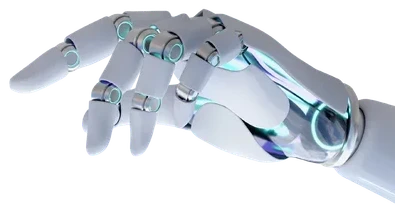
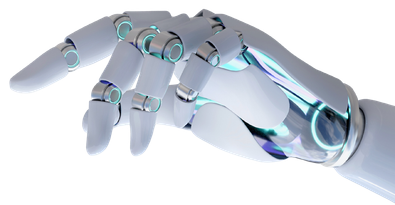
Homepage review pass: general problem and workflow slides, clearer offer, objections answered, sharper images, calmer motion
Claude-Session: https://claude.ai/code/session_01M1NKcTwKaxVh1QCPGxnW1z

diff --git a/index.html b/index.html
@@ -31,7 +31,7 @@
   <link rel="stylesheet" href="https://fonts.googleapis.com/css2?family=Archivo:wdth,wght@62..125,400..900&family=Inter:wght@400;500;600&family=Space+Grotesk:wght@500;600;700&family=JetBrains+Mono:wght@400;500;600&display=swap" media="print" onload="this.media=&#39;all&#39;" />
   <noscript><link rel="stylesheet" href="https://fonts.googleapis.com/css2?family=Archivo:wdth,wght@62..125,400..900&family=Inter:wght@400;500;600&family=Space+Grotesk:wght@500;600;700&family=JetBrains+Mono:wght@400;500;600&display=swap" /></noscript>
   <link rel="stylesheet" href="styles.css?v=20261015m" />
-  <link rel="stylesheet" href="home.css?v=20261015v" />
+  <link rel="stylesheet" href="home.css?v=20261016d" />
 
   <script type="application/ld+json">
 {
@@ -206,17 +206,18 @@
 
     <!-- Slide 1: everything they need, on one screen. The hands come in from the edges, like the Let's Build videos. -->
     <section class="hp-slide hp-deck" data-anim aria-labelledby="s1">
-      <img class="hp-hand hp-hand--robot" src="assets/art/hand-robot.webp" alt="" width="395" height="205" />
-      <img class="hp-hand hp-hand--human" src="assets/art/hand-human.webp" alt="" width="330" height="314" />
+      <img class="hp-hand hp-hand--robot" src="assets/art/hand-robot.webp?v=2" alt="" width="395" height="205" />
+      <img class="hp-hand hp-hand--human" src="assets/art/hand-human.webp?v=2" alt="" width="330" height="314" />
       <div class="hp-wrap hp-deck__in">
+        <p class="hp-deck__kicker">AI workflows for South African small businesses</p>
         <h1 class="hp-deck__title" id="s1">Your team types all day. <em>(Let AI do the typing)</em></h1>
         <div class="hp-deck__low">
           <span class="hp-deck__arrow" aria-hidden="true">&#8600;</span>
-          <p class="hp-lead">Emails, invoices, quotes, calls: AI drafts the work, a person checks it, and your team gets the hours back.</p>
-          <p class="hp-deck__tag"><b>Ready in 3 days. You only pay if it saves your team 5 hours a week.</b></p>
+          <p class="hp-deck__tag"><b>Start with the Inbox Assistant: ready in 3 business days, and you only pay if it saves your team 5 hours a week.</b></p>
+          <p class="hp-lead">Emails, WhatsApps, invoices, quotes, calls: AI drafts the work, a person checks it.</p>
           <div class="hp-actions">
             <a class="hp-btn" href="https://calendar.app.google/58FYamh1ahXB4khM9" target="_blank" rel="noopener" data-track="cta-hero-book">Book a free 30-minute call</a>
-            <a class="hp-link" href="live-demo?sample=email" data-track="cta-hero-watch">Watch it work &rarr;</a>
+            <a class="hp-link" href="https://wa.me/27722375833" target="_blank" rel="noopener" data-track="cta-hero-wa">Or ask on WhatsApp &rarr;</a>
           </div>
         </div>
       </div>
@@ -228,11 +229,18 @@
       <div class="hp-wrap hp-problem__grid">
         <div>
           <p class="hp-num">01</p>
-          <h2 id="s2">The problem</h2>
-          <p class="hp-problem__lead">An inbox that never empties. The same questions every day. Invoices typed in twice, and enquiries that slip through while everyone is busy.</p>
-          <p class="hp-problem__lead"><b>None of it is hard. It just fills the day.</b></p>
+          <p class="hp-label">The problem</p>
+          <h2 id="s2">None of it is hard. It just fills the day.</h2>
+          <p class="hp-problem__lead">It&rsquo;s different in every business: missed calls, invoices typed in twice, quotes that never get followed up, the same question for the tenth time today, and yes, the inbox.</p>
         </div>
-        <figure class="hp-art hp-art--problem" data-anim><img src="assets/art/inbox-overload.webp?v=2" alt="A laptop with an overflowing inbox: 124 unread emails, quote requests, support questions and follow-ups piling up." width="800" height="533" loading="lazy" /></figure>
+        <figure class="hp-art hp-art--problem hp-pile" data-anim aria-label="The kind of work that piles up: missed calls, invoices to capture, quotes waiting, repeated questions and unread emails.">
+          <img src="assets/art/inbox-overload.webp?v=3" alt="" width="800" height="533" loading="lazy" />
+          <span class="hp-chip hp-chip--1"><b>&#9742; 6 missed calls</b><small>since 17:00 yesterday</small></span>
+          <span class="hp-chip hp-chip--2"><b>14 invoices to capture</b><small>typed into Xero by hand</small></span>
+          <span class="hp-chip hp-chip--3"><b>Quote sent 9 days ago</b><small>no follow-up yet</small></span>
+          <span class="hp-chip hp-chip--4"><b>&ldquo;What are your hours?&rdquo;</b><small>asked 11 times this week</small></span>
+          <span class="hp-chip hp-chip--5"><b>Meeting notes</b><small>still not written up</small></span>
+        </figure>
       </div>
     </section>
 
@@ -240,13 +248,13 @@
     <section class="hp-slide hp-flow" aria-labelledby="s3">
       <div class="hp-wrap">
         <p class="hp-num">02</p>
-        <h2 id="s3">How it works</h2>
-        <p class="hp-flow__lead">Whatever the work, the same four steps.</p>
+        <p class="hp-label">How it works</p>
+        <h2 id="s3">We fit AI to your work, not your work to an app.</h2>
         <ol class="hp-steps">
-          <li><span class="hp-step__ic" aria-hidden="true"><svg viewBox="0 0 48 48"><path d="M6 27h10l3 6h10l3-6h10v12a3 3 0 0 1-3 3H9a3 3 0 0 1-3-3V27Zm0 0 6-17h24l6 17" fill="none" stroke="currentColor" stroke-width="3" stroke-linejoin="round"/></svg></span><b>It comes in</b><span>An email, invoice, call, message or document</span></li>
-          <li><span class="hp-step__ic" aria-hidden="true"><svg viewBox="0 0 48 48"><path d="M24 9c-4-4-12-2-12 5-5 1-6 8-2 11-3 5 1 11 7 10 1 4 5 5 7 3V9Zm0 0c4-4 12-2 12 5 5 1 6 8 2 11 3 5-1 11-7 10-1 4-5 5-7 3" fill="none" stroke="currentColor" stroke-width="3" stroke-linejoin="round"/><path d="M24 16h-5M24 24h-7M24 31h-4M24 20h6M24 28h7" stroke="currentColor" stroke-width="2.5" stroke-linecap="round"/></svg></span><b>AI reads it</b><span>What it is, what&rsquo;s needed and what&rsquo;s missing</span></li>
-          <li><span class="hp-step__ic" aria-hidden="true"><svg viewBox="0 0 48 48"><circle cx="13" cy="12" r="4" fill="none" stroke="currentColor" stroke-width="3"/><path d="M17 12h14a7 7 0 0 1 0 14H17a7 7 0 0 0 0 14h18" fill="none" stroke="currentColor" stroke-width="3.5" stroke-linecap="round"/><path d="m31 35 5 5-5 5" fill="none" stroke="currentColor" stroke-width="3.5" stroke-linecap="round" stroke-linejoin="round"/></svg></span><b>It goes to the right place</b><span>The right person, system or folder</span></li>
-          <li><span class="hp-step__ic" aria-hidden="true"><svg viewBox="0 0 48 48"><circle cx="24" cy="24" r="17" fill="none" stroke="currentColor" stroke-width="3"/><path d="m16 24 6 6 11-12" fill="none" stroke="currentColor" stroke-width="3.5" stroke-linecap="round" stroke-linejoin="round"/></svg></span><b>Done, or ready to check</b><span>Replied, captured, booked, or flagged for a person</span></li>
+          <li><span class="hp-step__ic" aria-hidden="true"><svg viewBox="0 0 48 48"><circle cx="12" cy="12" r="5" fill="none" stroke="currentColor" stroke-width="3"/><circle cx="36" cy="12" r="5" fill="none" stroke="currentColor" stroke-width="3"/><circle cx="24" cy="36" r="5" fill="none" stroke="currentColor" stroke-width="3"/><path d="M17 12h14M15 16l6 15M33 16l-6 15" fill="none" stroke="currentColor" stroke-width="3" stroke-linecap="round"/></svg></span><b>We map the work</b><span>What comes in, who handles it, how long it takes today</span></li>
+          <li><span class="hp-step__ic" aria-hidden="true"><svg viewBox="0 0 48 48"><rect x="5" y="8" width="14" height="10" rx="2" fill="none" stroke="currentColor" stroke-width="3"/><rect x="29" y="19" width="14" height="10" rx="2" fill="none" stroke="currentColor" stroke-width="3"/><rect x="5" y="30" width="14" height="10" rx="2" fill="none" stroke="currentColor" stroke-width="3"/><path d="M19 13h5v22h-5M24 24h5" fill="none" stroke="currentColor" stroke-width="3" stroke-linejoin="round"/></svg></span><b>We build the workflow</b><span>Connected to the tools you already use</span></li>
+          <li><span class="hp-step__ic" aria-hidden="true"><svg viewBox="0 0 48 48"><path d="M24 9c-4-4-12-2-12 5-5 1-6 8-2 11-3 5 1 11 7 10 1 4 5 5 7 3V9Zm0 0c4-4 12-2 12 5 5 1 6 8 2 11 3 5-1 11-7 10-1 4-5 5-7 3" fill="none" stroke="currentColor" stroke-width="3" stroke-linejoin="round"/><path d="M24 16h-5M24 24h-7M24 31h-4M24 20h6M24 28h7" stroke="currentColor" stroke-width="2.5" stroke-linecap="round"/></svg></span><b>AI does the routine part</b><span>A person checks anything that matters</span></li>
+          <li><span class="hp-step__ic" aria-hidden="true"><svg viewBox="0 0 48 48"><circle cx="24" cy="26" r="16" fill="none" stroke="currentColor" stroke-width="3"/><path d="M24 26V16M20 5h8M24 5v5" fill="none" stroke="currentColor" stroke-width="3" stroke-linecap="round"/></svg></span><b>You see the time saved</b><span>Timed before and after, the same way</span></li>
         </ol>
       </div>
     </section>
@@ -255,13 +263,16 @@
     <section class="hp-slide hp-show" aria-labelledby="s4">
       <div class="hp-wrap">
         <div class="hp-show__head">
-          <div><p class="hp-num hp-num--light">03</p><h2 id="s4">See it on a morning&rsquo;s inbox</h2></div>
-          <p>Ten emails: replies drafted, invoices forwarded, the angry customer flagged for a person. <a href="ai-demos">Nine more examples</a>, from phone calls to invoices.</p>
+          <div><p class="hp-num hp-num--light">03</p><p class="hp-label hp-label--light">See it work</p><h2 id="s4">A real morning&rsquo;s work, done while you watch.</h2></div>
+          <p>Run any example yourself. They use sample work, so nothing is sent.</p>
         </div>
         <a class="hp-shot" href="live-demo?sample=email" aria-label="Run the inbox example" data-track="home-shot-email">
-          <img src="assets/shots/email.jpg" alt="The inbox example after running: ten emails, each drafted, forwarded, filed or flagged, with 37 minutes saved." width="1240" height="560" loading="lazy" />
-          <span class="hp-shot__go">Run it yourself &rarr;</span>
+          <img class="hp-shot__wide" src="assets/shots/email.jpg" alt="The inbox example after running: ten emails, each drafted, forwarded, filed or flagged, with 37 minutes saved." width="1240" height="560" loading="lazy" />
+          <img class="hp-shot__phone" src="assets/shots/phone-chat.jpg" alt="The enquiries example on a phone: a WhatsApp asking for Saturday gel nails, answered with two open times and the price." width="875" height="1073" loading="lazy" />
         </a>
+        <ul class="hp-kinds" aria-label="Examples">
+          <li><a href="live-demo?sample=email">Emails</a></li><li><a href="live-demo?sample=enquiries">WhatsApp enquiries</a></li><li><a href="live-demo?sample=calls">Phone calls</a></li><li><a href="live-demo?sample=invoices">Invoices</a></li><li><a href="live-demo?sample=followups">Quote follow-ups</a></li><li><a href="ai-demos">All ten &rarr;</a></li>
+        </ul>
       </div>
     </section>
 
@@ -271,10 +282,10 @@
         <p class="hp-num">04</p>
         <h2 id="s5">Before and after</h2>
         <div class="hp-ba__grid">
-          <div class="hp-ba__before"><h3>Before</h3><ul><li>Typing the same things by hand</li><li>Work missed or answered late</li><li>Copying between systems</li><li>Admin eating the day</li></ul>
-            <img class="hp-ba__stack" src="assets/art/paper-stack.webp" alt="" width="560" height="560" loading="lazy" /></div>
+          <div class="hp-ba__before"><h3>Before</h3><ul><li>Typing the same things by hand</li><li>Work missed or answered late</li><li>Copying between systems</li></ul>
+            <img class="hp-ba__stack" src="assets/art/paper-stack.webp?v=2" alt="" width="560" height="560" loading="lazy" /></div>
           <span class="hp-ba__arrow" aria-hidden="true">&rarr;</span>
-          <div class="hp-ba__after"><h3>After</h3><ul><li>Sorted the moment it arrives</li><li>Sent to the right person or system</li><li>Drafted, captured or booked in seconds</li><li>Time back for the real work</li></ul>
+          <div class="hp-ba__after"><h3>After</h3><ul><li>Sorted the moment it arrives</li><li>Sent to the right person</li><li>Drafted, captured or booked in seconds</li></ul>
             <span class="hp-ba__mail" aria-hidden="true"><svg viewBox="0 0 120 96"><rect x="8" y="10" width="96" height="66" rx="5" fill="none" stroke="#fff" stroke-width="5"/><path d="m11 14 45 34 45-34" fill="none" stroke="#fff" stroke-width="5" stroke-linejoin="round"/><g class="hp-ba__tick"><circle cx="98" cy="72" r="18" fill="#1a1717" stroke="#fff" stroke-width="5"/><path d="m89 72 6 6 12-13" fill="none" stroke="#fff" stroke-width="5.5" stroke-linecap="round" stroke-linejoin="round"/></g></svg></span></div>
         </div>
       </div>
@@ -283,15 +294,15 @@
     <!-- Slide 6: why us -->
     <section class="hp-slide hp-who" aria-labelledby="s6">
       <div class="hp-wrap hp-who__grid">
-        <figure class="hp-art hp-art--tall hp-split hp-split--reach" style="--at:52.8%" data-anim><img class="hp-split__a" src="assets/art/reach-up.webp" alt="" width="533" height="800" loading="lazy" /><img class="hp-split__b" src="assets/art/reach-up.webp" alt="" width="533" height="800" loading="lazy" aria-hidden="true" /></figure>
+        <figure class="hp-art hp-art--tall hp-rise" data-anim><img src="assets/art/reach-up.webp?v=2" alt="" width="533" height="800" loading="lazy" /></figure>
         <div>
           <p class="hp-num">05</p>
           <h2 id="s6">Most of the AI we&rsquo;re asked to build shouldn&rsquo;t be built.</h2>
-          <p>So we time the work first. If it isn&rsquo;t worth it, we say so and you keep your money. One developer maps it, builds it and answers when it needs fixing.</p>
+          <p>So we time the work first. If it isn&rsquo;t worth it, we say so before you spend a rand.</p>
           <ol class="hp-promises">
-            <li>We&rsquo;ll say if AI isn&rsquo;t worth it, even if it costs us the job.</li>
-            <li>You see the time saved, measured before and after.</li>
-            <li>You own everything: the system, the accounts, the data.</li>
+            <li><b>Works with what you already use.</b> Like Gmail, Outlook, WhatsApp and Xero. No new software for your staff to learn.</li>
+            <li><b>Your data stays yours.</b> It stays in your accounts, isn&rsquo;t used to train AI, and is handled under POPIA.</li>
+            <li><b>No lock-in.</b> You own the accounts, the system and the data, documented so any developer could take over.</li>
           </ol>
         </div>
       </div>
@@ -302,28 +313,28 @@
       <div class="hp-wrap hp-offer__grid">
         <div>
           <p class="hp-num hp-num--light">06</p>
-          <h2 id="s7">Start with the Inbox Assistant</h2>
+          <h2 id="s7">The easiest place to start: the Inbox Assistant</h2>
           <p>Every routine customer email, drafted in seconds from your own prices and policies. Your team checks it and presses send.</p>
-          <a class="hp-btn hp-btn--light" href="inbox-assistant" data-track="cta-home-inbox">How it works</a>
+          <div class="hp-actions"><a class="hp-btn hp-btn--light" href="https://calendar.app.google/58FYamh1ahXB4khM9" target="_blank" rel="noopener" data-track="cta-home-trial">Book a free call</a><a class="hp-link hp-link--light" href="inbox-assistant" data-track="cta-home-inbox">How it works &rarr;</a></div>
         </div>
         <div>
           <dl class="hp-terms">
             <div><dt>Ready</dt><dd>within 3 business days</dd></div>
             <div><dt>Trial</dt><dd>two weeks, on your real emails</dd></div>
             <div><dt>You pay</dt><dd>only if it saves your team 5 hours a week</dd></div>
-            <div><dt>Then</dt><dd>R9,500 setup, R2,950 a month</dd></div>
+            <div><dt>Then</dt><dd>R9,500 setup, R2,950 a month per business, AI usage included</dd></div>
           </dl>
-          <p class="hp-offer__more">Other work: AI systems from R25,000 &middot; automations from R15,000 &middot; websites from R12,500. Fixed quote first. <a href="pricing">All prices</a></p>
+          <p class="hp-offer__more">3-month minimum, then month to month. Bigger builds start from R25,000, with a fixed quote first. <a href="pricing">All prices</a></p>
         </div>
       </div>
     </section>
 
     <!-- Slide 8: the ask, bookended with the hands -->
     <section class="hp-slide hp-deck hp-deck--end" data-anim aria-labelledby="s8">
-      <img class="hp-hand hp-hand--robot" src="assets/art/hand-robot.webp" alt="" width="395" height="205" loading="lazy" />
-      <img class="hp-hand hp-hand--human" src="assets/art/hand-human.webp" alt="" width="330" height="314" loading="lazy" />
+      <img class="hp-hand hp-hand--robot" src="assets/art/hand-robot.webp?v=2" alt="" width="395" height="205" loading="lazy" />
+      <img class="hp-hand hp-hand--human" src="assets/art/hand-human.webp?v=2" alt="" width="330" height="314" loading="lazy" />
       <div class="hp-wrap hp-deck__in">
-        <h2 class="hp-deck__title" id="s8">Tell us what takes too long. <em>(Yes, you)</em></h2>
+        <h2 class="hp-deck__title" id="s8">Tell us what takes too long.</h2>
         <div class="hp-deck__low">
           <span class="hp-deck__arrow" aria-hidden="true">&#8600;</span>
           <p class="hp-lead">Thirty minutes on a video call. You tell us about the work; we tell you honestly whether AI is worth it, and roughly what it costs.</p>

diff --git a/home.css b/home.css
@@ -391,3 +391,119 @@ html:has(.hp-slides) { scroll-snap-type: y proximity; scroll-padding-top: var(--
   .hp-offer .hp-btn { min-height: 42px; padding: .5rem 1.1rem; }
 }
 .hp-deck__title em { display: block; font-style: normal; color: var(--ink); }
+/* The problem: the laptop plus the other things that pile up, so it isn't just email */
+.hp-pile { position: relative; }
+.hp-chip { position: absolute; z-index: 2; display: grid; gap: .1rem; padding: .55rem .8rem; background: #fff; border-radius: 12px; box-shadow: 0 10px 28px -10px rgba(0, 0, 0, .3), 0 0 0 1px rgba(0, 0, 0, .05); font-size: .82rem; line-height: 1.25; white-space: nowrap; }
+.hp-chip b { font-weight: 700; color: var(--ink); }
+.hp-chip small { color: #666262; font-size: .74rem; }
+.hp-chip--1 { left: -4%; top: 6%; }
+.hp-chip--2 { left: -8%; top: 46%; }
+.hp-chip--3 { left: 18%; bottom: 2%; }
+.hp-chip--4 { right: -2%; bottom: 6%; background: #1a1717; } .hp-chip--4 b { color: #fff; } .hp-chip--4 small { color: #cfcfcf; }
+.hp-chip--5 { left: 30%; top: -4%; }
+@media (max-width: 860px) {
+  .hp-chip { font-size: .7rem; padding: .35rem .55rem; } .hp-chip small { font-size: .64rem; }
+  .hp-chip--1 { left: 0; top: 0; } .hp-chip--2 { left: 0; top: 44%; } .hp-chip--3 { left: 22%; bottom: 0; } .hp-chip--4 { right: 0; bottom: 14%; } .hp-chip--5 { left: auto; right: 4%; top: -6%; }
+}
+@media (prefers-reduced-motion: no-preference) {
+  .hp-anim .hp-pile .hp-chip { transition: opacity .5s ease, translate .7s cubic-bezier(.34, 1.5, .64, 1); }
+  .hp-anim .hp-pile:not(.is-in) .hp-chip { opacity: 0; translate: 0 18px; }
+  .hp-anim .hp-pile .hp-chip--5 { transition-delay: .3s; } .hp-anim .hp-pile .hp-chip--1 { transition-delay: .5s; } .hp-anim .hp-pile .hp-chip--2 { transition-delay: .7s; } .hp-anim .hp-pile .hp-chip--3 { transition-delay: .9s; } .hp-anim .hp-pile .hp-chip--4 { transition-delay: 1.1s; }
+  .hp-anim .hp-pile.is-in .hp-chip { animation: hp-bob 5s ease-in-out 2s infinite; }
+  .hp-anim .hp-pile.is-in .hp-chip--2, .hp-anim .hp-pile.is-in .hp-chip--4 { animation-delay: 3s; }
+}
+@keyframes hp-bob { 50% { transform: translateY(-5px); } }
+/* Images are shown no larger than about their real size, so they stay sharp */
+.hp-hand--robot { width: clamp(220px, 34vw, 470px); }
+.hp-hand--human { width: clamp(170px, 26vw, 400px); }
+.hp-art--problem img { max-width: 800px; }
+/* Only the hero hands sit behind text, so only they are see-through */
+.hp-art img, .hp-ba__stack, .hp-split img { opacity: 1; }
+
+/* ===== Review pass ===== */
+.hp-deck__kicker { text-align: center; font-weight: 700; margin: 0 0 1rem; color: var(--ink); }
+.hp-deck__kicker::before { content: "\2198"; margin-right: .4em; }
+.hp-deck__tag { font-size: clamp(1.05rem, 1.6vw, 1.3rem); line-height: 1.35; margin: 0 0 .6rem; }
+.hp-lead, .hp-problem__lead, .hp-who p, .hp-steps li > span:last-child { color: #3a3636 !important; }
+.hp-label { font-weight: 700; margin: 0 0 .5rem; color: var(--ink); }
+.hp-label::before { content: "\2198"; margin-right: .4em; }
+.hp-label--light { color: #fff; }
+.hp-slide h2 { font-size: clamp(1.7rem, min(4.2vw, 7vh), 3.4rem) !important; max-width: 22ch; }
+.hp-show h2 { color: #fff !important; }
+/* demo slide: wide screenshot on desktop, a readable phone shot on phones, example kinds as pills */
+.hp-shot__phone { display: none; }
+.hp-kinds { list-style: none; margin: 1.2rem 0 0; padding: 0; display: flex; flex-wrap: wrap; gap: .5rem; }
+.hp-kinds a { display: inline-flex; align-items: center; min-height: 40px; padding: .4rem .95rem; border-radius: 999px; border: 1.5px solid rgba(255, 255, 255, .5); color: #fff; text-decoration: none; font-weight: 600; font-size: .92rem; }
+.hp-kinds a:hover { background: #fff; color: var(--ink); }
+/* how it works: big black numbers, no grey circles */
+.hp-steps { counter-reset: st; }
+.hp-step__ic { display: none !important; }
+.hp-steps li { justify-items: start; text-align: left; counter-increment: st; border-top: 2px solid var(--ink); padding-top: 1rem; }
+.hp-steps li::after { content: counter(st, decimal-leading-zero); order: -1; font: 800 clamp(2rem, 4vw, 3rem)/1 "Archivo", sans-serif; font-stretch: 112%; margin-bottom: .6rem; }
+.hp-steps li + li::before { display: none !important; }
+.hp-steps li { display: flex; flex-direction: column; }
+.hp-steps b { font-size: 1.05rem; text-transform: none; font-stretch: 100%; }
+/* before/after: neutral cards, everything inside */
+.hp-ba__before { background: #ececec; }
+.hp-ba__mail { right: 1rem; bottom: 1rem; width: 30%; max-width: 150px; }
+.hp-ba__stack { right: .5rem; bottom: .5rem; width: 36%; max-width: 200px; }
+.hp-ba__after ul, .hp-ba__before ul { max-width: 66%; }
+/* why us list */
+.hp-promises li { display: block; padding-left: 2.4rem; position: relative; }
+.hp-promises li::before { position: absolute; left: 0; top: .1rem; }
+.hp-promises b { display: block; }
+.hp-link--light { color: #fff; text-decoration-color: #fff; }
+/* calmer motion: one-shot entrances, only the hands drift */
+@media (prefers-reduced-motion: no-preference) {
+  .hp-anim .hp-pile.is-in .hp-chip, .hp-anim .hp-art--problem.is-in img, .hp-anim .hp-deck-ba.is-in .hp-ba__stack { animation: none !important; }
+  .hp-anim .hp-deck-ba.is-in .hp-ba__tick { animation: hp-tick 1.4s ease-in-out 1.2s 2 !important; }
+}
+@keyframes hp-tick { 0%, 100% { transform: scale(1); } 50% { transform: scale(1.15); } }
+.hp-next { animation-iteration-count: 3 !important; }
+@media (max-width: 860px) {
+  .hp-deck__kicker { text-align: left; }
+  .hp-shot__wide { display: none; } .hp-shot__phone { display: block; max-height: 46vh; width: auto; margin: 0 auto; border-radius: 18px; }
+  .hp-shot { border: 0; background: none; }
+  .hp-kinds a { min-height: 36px; font-size: .82rem; padding: .3rem .75rem; }
+  .hp-steps { grid-template-columns: 1fr; gap: .7rem; }
+  .hp-steps li { flex-direction: row; align-items: baseline; gap: .8rem; padding-top: .6rem; flex-wrap: wrap; }
+  .hp-steps li::after { font-size: 1.5rem; margin: 0; }
+  .hp-steps li > span:last-child { flex-basis: 100%; padding-left: 2.6rem; margin-top: -.3rem; }
+  .hp-hand { opacity: .25 !important; }
+  .hp-chip--1 { left: 1rem; } .hp-chip--2 { left: 1rem; } .hp-chip--4 { right: 1rem; } .hp-chip--5 { right: 1rem; }
+  .hp-actions .hp-link, .hp-small .inline-link { display: inline-flex; align-items: center; min-height: 44px; }
+}
+.hp-shot__wide { max-height: calc(100svh - var(--nav-h, 67px) - 19rem) !important; }
+.hp-show__head { margin-bottom: 1rem; gap: .5rem 3rem; }
+.hp-show__head p { margin: 0; }
+.hp-kinds { margin-top: .9rem; }
+@media (max-width: 860px) {
+  .hp-shot__phone { max-height: 34vh; }
+  .hp-show__head { margin-bottom: .6rem; }
+  .hp-kinds { gap: .35rem; margin-top: .6rem; }
+  .hp-offer p { font-size: .95rem; margin-bottom: .6rem; }
+  .hp-offer .hp-actions { margin-top: .8rem; gap: .4rem 1rem; }
+  .hp-terms div { padding: .4rem 0; grid-template-columns: 4.8rem 1fr; }
+  .hp-terms dd { font-size: .95rem; }
+  .hp-offer__more { font-size: .82rem; margin-top: .5rem; }
+  .hp-offer__grid { gap: 1rem; }
+}
+.hp-show__head { grid-template-columns: 1fr; }
+.hp-show h2 { max-width: none !important; font-size: clamp(1.5rem, min(3.4vw, 5.5vh), 2.8rem) !important; margin-bottom: .4rem !important; }
+.hp-show .hp-num { margin-bottom: .4rem; }
+.hp-shot__wide { max-height: calc(100svh - var(--nav-h, 67px) - 22rem) !important; }
+@media (max-width: 860px) {
+  .hp-shot__phone { max-height: 30vh; }
+  .hp-show h2 { font-size: 1.35rem !important; }
+  .hp-show__head p { font-size: .9rem; }
+  .hp-kinds li:nth-child(n+5):not(:last-child) { display: none; }
+}
+@media (max-width: 860px) and (max-height: 780px) { .hp-shot__phone { max-height: 24vh; } }
+@media (max-width: 860px) {
+  .hp-shot img.hp-shot__phone { max-height: 30vh !important; width: auto !important; max-width: 100%; object-fit: contain; }
+}
+@media (max-width: 860px) and (max-height: 780px) { .hp-shot img.hp-shot__phone { max-height: 26vh !important; } }
+@media (prefers-reduced-motion: no-preference) {
+  .hp-anim .hp-rise img { transition: translate 1.2s cubic-bezier(.16, 1, .3, 1), opacity .9s ease; }
+  .hp-anim .hp-rise:not(.is-in) img { translate: 0 30px; opacity: 0; }
+}
